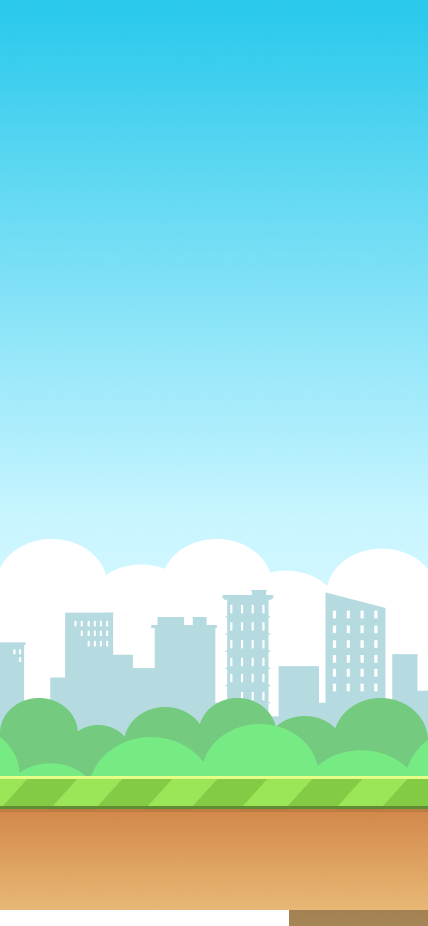
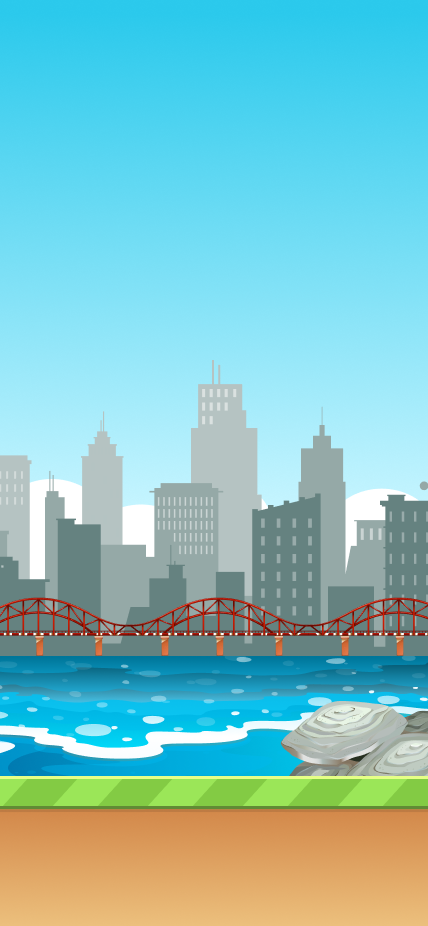
Update Changed Assest Images & Updated UI for Soreboard

diff --git a/main.py b/main.py
@@ -6,8 +6,8 @@ import os
 pygame.init()
 
 # Screen dimensions
-SCREEN_WIDTH = 400
-SCREEN_HEIGHT = 600
+SCREEN_WIDTH = 428
+SCREEN_HEIGHT = 926
 
 # Colors
 WHITE = (255, 255, 255)
@@ -22,7 +22,7 @@ PIPE_IMAGE = pygame.image.load('assets/pipe.png')
 GRAVITY = 0.5
 FLAP_STRENGTH = -10
 PIPE_SPEED = 3
-PIPE_GAP = 300
+PIPE_GAP = 250  # Increased PIPE_GAP to make pipes taller
 PIPE_FREQUENCY = 1500  # milliseconds
 
 # Setup screen
@@ -57,8 +57,12 @@ class Pipe:
     def __init__(self, x):
         self.image_top = pygame.transform.flip(PIPE_IMAGE, False, True)
         self.image_bottom = PIPE_IMAGE
-        self.rect_top = self.image_top.get_rect(midbottom=(x, random.randint(100, SCREEN_HEIGHT - PIPE_GAP - 100) - PIPE_GAP // 2))
-        self.rect_bottom = self.image_bottom.get_rect(midtop=(x, self.rect_top.bottom + PIPE_GAP))
+        # Randomize the top pipe height within reasonable limits
+        top_height = random.randint(200, SCREEN_HEIGHT - PIPE_GAP - 200)
+        self.rect_top = self.image_top.get_rect(midbottom=(x, top_height))
+        # Calculate the position for the bottom pipe so it touches the bottom of the screen
+        bottom_height = SCREEN_HEIGHT - (top_height + PIPE_GAP)
+        self.rect_bottom = self.image_bottom.get_rect(midtop=(x, top_height + PIPE_GAP))
 
     def update(self):
         self.rect_top.x -= PIPE_SPEED
@@ -121,52 +125,64 @@ def show_game_over_screen(score):
             scores = scores[:5]
         save_scores(scores)
 
+    # Clear the screen and draw the background
     screen.blit(BACKGROUND_IMAGE, (0, 0))
-    font = pygame.font.Font(None, 74)
-    text = font.render("Game Over", True, BLACK)
-    screen.blit(text, (SCREEN_WIDTH // 2 - text.get_width() // 2, SCREEN_HEIGHT // 9))
-    bird_rect = BIRD_IMAGE.get_rect(center=(SCREEN_WIDTH // 2, SCREEN_HEIGHT // 4.5))
-    screen.blit(BIRD_IMAGE, bird_rect)
-    font = pygame.font.Font(None, 36)
-    text = font.render(f"Score: {score}", True, BLACK)
-    screen.blit(text, (SCREEN_WIDTH // 2 - text.get_width() // 2, SCREEN_HEIGHT // 2.5))
-    font = pygame.font.Font(None, 36)
-# Function to display the game over screen
-def show_game_over_screen(score):
-    scores = load_scores()
-    if len(scores) < 5 or score > scores[-1][1]:
-        name = get_player_name()
-        scores.append((name, score))
-        scores.sort(key=lambda x: x[1], reverse=True)
-        if len(scores) > 5:
-            scores = scores[:5]
-        save_scores(scores)
 
-    screen.blit(BACKGROUND_IMAGE, (0, 0))
-    font = pygame.font.Font(None, 74)
-    text = font.render("Game Over", True, BLACK)
-    screen.blit(text, (SCREEN_WIDTH // 2 - text.get_width() // 2, SCREEN_HEIGHT // 9))
+    # Game Over Text
+    font_large = pygame.font.Font(None, 74)
+    game_over_text = font_large.render("Game Over", True, BLACK)
+    screen.blit(game_over_text, (SCREEN_WIDTH // 2 - game_over_text.get_width() // 2, SCREEN_HEIGHT // 9))
 
-    bird_rect = BIRD_IMAGE.get_rect(center=(SCREEN_WIDTH // 2, SCREEN_HEIGHT // 4.5))
-    screen.blit(BIRD_IMAGE, bird_rect)
+    # Display Player Score
+    font_medium = pygame.font.Font(None, 60)
+    score_text = font_medium.render(f"Your Score: {score}", True, BLACK)
+    screen.blit(score_text, (SCREEN_WIDTH // 2 - score_text.get_width() // 2, SCREEN_HEIGHT // 4.5))
 
-    font = pygame.font.Font(None, 36)
-    text = font.render(f"Score: {score}", True, BLACK)
-    screen.blit(text, (SCREEN_WIDTH // 2 - text.get_width() // 2, SCREEN_HEIGHT // 2.5))
+    # Scoreboard Table
+    font_small = pygame.font.Font(None, 36)
+    table_x = SCREEN_WIDTH // 2 - 150  # Center the table horizontally
+    table_y = SCREEN_HEIGHT // 2.5     # Position the table vertically
+    row_height = 40
+    column_width = [100, 150,100]  # Width for Rank, Name, and Score columns
 
-    font = pygame.font.Font(None, 36)
-    text = font.render("Press SPACE to Restart", True, BLACK)
-    screen.blit(text, (SCREEN_WIDTH // 2 - text.get_width() // 2, SCREEN_HEIGHT // 1.2))
+    # Draw Table Header
+    header_bg_color = (50, 50, 50)  # Dark gray for header
+    header_font_color = WHITE
+    pygame.draw.rect(screen, header_bg_color, (table_x, table_y, sum(column_width), row_height))
+    headers = ["Rank", "Name", "Score"]
+    for i, header in enumerate(headers):
+        header_text = font_small.render(header, True, header_font_color)
+        screen.blit(header_text, (table_x + 10 + sum(column_width[:i]), table_y + 10))
 
-    # Display scoreboard
-    font = pygame.font.Font(None, 36)
-    y_offset = SCREEN_HEIGHT // 2  # Adjusted y_offset to place the scoreboard higher
-    for i, (name, scr) in enumerate(scores):
-        text = font.render(f"{i+1}. {name}: {scr}", True, BLACK)
-        screen.blit(text, (SCREEN_WIDTH // 2 - text.get_width() // 2, y_offset))
-        y_offset += 40
+    # Draw Table Rows
+    row_bg_colors = [(200, 200, 200), (230, 230, 230)]  # Alternating row colors
+    for idx, (name, scr) in enumerate(scores):
+        row_color = row_bg_colors[idx % 2]  # Alternate row colors
+        pygame.draw.rect(screen, row_color, (table_x, table_y + (idx + 1) * row_height, sum(column_width), row_height))
+
+        # Rank
+        rank_text = font_small.render(f"{idx + 1}.", True, BLACK)
+        screen.blit(rank_text, (table_x + 10, table_y + (idx + 1) * row_height + 10))
+
+        # Name
+        name_text = font_small.render(name, True, BLACK)
+        screen.blit(name_text, (table_x + column_width[0] + 10, table_y + (idx + 1) * row_height + 10))
+
+        # Score
+        score_text = font_small.render(str(scr), True, BLACK)
+        screen.blit(score_text, (table_x + column_width[0] + column_width[1] + 10, table_y + (idx + 1) * row_height + 10))
+
+    # Draw Table Borders
+    border_color = BLACK
+    pygame.draw.rect(screen, border_color, (table_x, table_y, sum(column_width), (len(scores) + 1) * row_height), 2)
+
+    # Restart Instruction
+    restart_text = font_small.render("Press SPACE to Restart", True, BLACK)
+    screen.blit(restart_text, (SCREEN_WIDTH // 2 - restart_text.get_width() // 2, SCREEN_HEIGHT - 100))
 
     pygame.display.flip()
+
+    # Wait for player input
     waiting = True
     while waiting:
         for event in pygame.event.get():
@@ -177,38 +193,28 @@ def show_game_over_screen(score):
                 if event.key == pygame.K_SPACE:
                     waiting = False
     return True
-    screen.blit(text, (SCREEN_WIDTH // 2 - text.get_width() // 2, SCREEN_HEIGHT // 1.2))
 
-    # Display scoreboard
-    font = pygame.font.Font(None, 36)
-    y_offset = SCREEN_HEIGHT // 1.5 + 50
-    for i, (name, scr) in enumerate(scores):
-        text = font.render(f"{i+1}. {name}: {scr}", True, BLACK)
-        screen.blit(text, (SCREEN_WIDTH // 2 - text.get_width() // 2, y_offset))
-        y_offset += 40
 
-    pygame.display.flip()
-    waiting = True
-    while waiting:
-        for event in pygame.event.get():
-            if event.type == pygame.QUIT:
-                pygame.quit()
-                return False
-            if event.type == pygame.KEYDOWN:
-                if event.key == pygame.K_SPACE:
-                    waiting = False
-    return True
+
+
+
+
+
+
 
 # Function to get player name
 def get_player_name():
-
-    name = "Player"
-    font = pygame.font.Font(None, 36)
-    input_box = pygame.Rect(SCREEN_WIDTH // 2 - 100, SCREEN_HEIGHT // 2, 200, 32)
+    name = ""
+    font = pygame.font.Font(None, 48)
+    input_font = pygame.font.Font(None, 36)
     color_inactive = pygame.Color('lightskyblue3')
     color_active = pygame.Color('dodgerblue2')
-    color = color_inactive
+    color = color_active
     active = True
+    input_box = pygame.Rect(SCREEN_WIDTH // 2 - 100, SCREEN_HEIGHT // 2, 200, 40)
+    label_text = "Enter Your Name:"
+    instruction_text = "Press ENTER to submit"
+
     while True:
         for event in pygame.event.get():
             if event.type == pygame.QUIT:
@@ -221,14 +227,27 @@ def get_player_name():
                     elif event.key == pygame.K_BACKSPACE:
                         name = name[:-1]
                     else:
-                        name += event.unicode
+                        if len(name) < 15:  # Limit the name length
+                            name += event.unicode
 
+        # Draw the background
         screen.blit(BACKGROUND_IMAGE, (0, 0))
-        txt_surface = font.render(name, True, color)
-        width = max(200, txt_surface.get_width()+10)
+
+        # Draw the label
+        label_surface = font.render(label_text, True, BLACK)
+        screen.blit(label_surface, (SCREEN_WIDTH // 2 - label_surface.get_width() // 2, SCREEN_HEIGHT // 2 - 60))
+
+        # Draw the input box
+        txt_surface = input_font.render(name, True, color)
+        width = max(200, txt_surface.get_width() + 10)
         input_box.w = width
-        screen.blit(txt_surface, (input_box.x+5, input_box.y+5))
+        screen.blit(txt_surface, (input_box.x + 5, input_box.y + 5))
         pygame.draw.rect(screen, color, input_box, 2)
+
+        # Draw the instruction text
+        instruction_surface = input_font.render(instruction_text, True, BLACK)
+        screen.blit(instruction_surface, (SCREEN_WIDTH // 2 - instruction_surface.get_width() // 2, SCREEN_HEIGHT // 2 + 50))
+
         pygame.display.flip()
         clock.tick(30)
 
